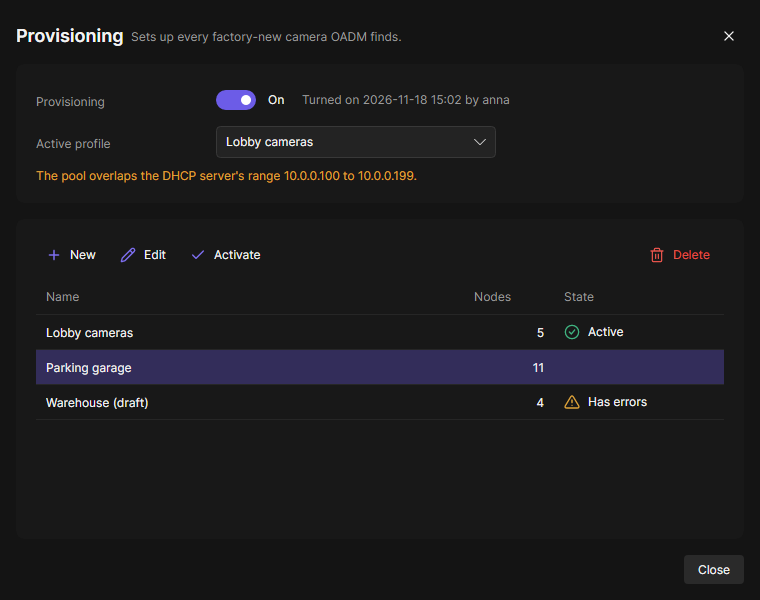
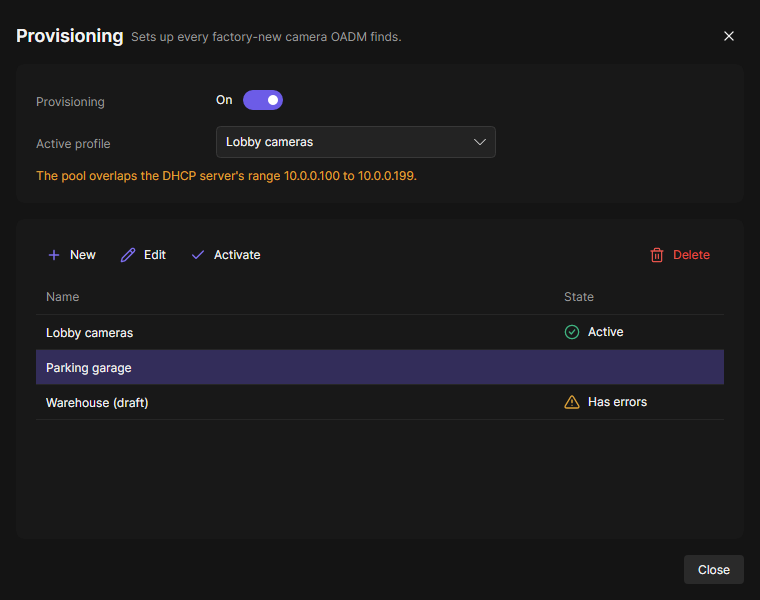
feat(provisioning): the switch no longer shows when and by whom it was turned on (the audit log has it)

diff --git a/plugins/Oadm.Plugins.Provisioning.Client/ProvisioningDialogViewModel.cs b/plugins/Oadm.Plugins.Provisioning.Client/ProvisioningDialogViewModel.cs
@@ -60,16 +60,11 @@ public sealed partial class ProvisioningDialogViewModel : ObservableObject
 
     /// <summary>The server's status: on or off, the active profile, why On is refused, the warnings, the DHCP server.</summary>
     [ObservableProperty]
-    [NotifyPropertyChangedFor(nameof(IsOn), nameof(OnText), nameof(HasOnText), nameof(Warnings), nameof(HasWarnings), nameof(SwitchTip))]
+    [NotifyPropertyChangedFor(nameof(IsOn), nameof(Warnings), nameof(HasWarnings), nameof(SwitchTip))]
     public partial StatusReply Status { get; private set; } = new();
 
     /// <summary>Provisioning is on (the switch).</summary>
     public bool IsOn => Status.On;
-
-    /// <summary>"Turned on 2026-11-18 14:02 by anna" while on; empty while off.</summary>
-    public string OnText => Status is { On: true, OnAt: { } at } ? ProvisioningTexts.TurnedOn(at, Status.OnBy) : string.Empty;
-
-    public bool HasOnText => OnText.Length > 0;
 
     /// <summary>Why On does not work now (the switch's tooltip while off); null when it would.</summary>
     public string? SwitchTip => Status.On ? null : Status.TurnOnRefusal;

diff --git a/tests/Oadm.Plugins.Provisioning.Tests/Client/ProvisioningDialogTests.cs b/tests/Oadm.Plugins.Provisioning.Tests/Client/ProvisioningDialogTests.cs
@@ -43,8 +43,6 @@ public sealed class ProvisioningDialogTests
     {
         var (dialog, _, _) = await OpenAsync();
         Assert.True(dialog.IsOn);
-        Assert.StartsWith("Turned on 2026-11-18 ", dialog.OnText, StringComparison.Ordinal);
-        Assert.EndsWith(" by anna", dialog.OnText, StringComparison.Ordinal);
         Assert.Equal("Lobby cameras", dialog.ActiveChoice?.Name);
         Assert.Equal(["Lobby cameras", "Parking"], dialog.ActiveChoices.Select(r => r.Name));
         Assert.True(dialog.HasWarnings);
@@ -52,7 +50,6 @@ public sealed class ProvisioningDialogTests
 
         var (off, _, _) = await OpenAsync(status: Off());
         Assert.False(off.IsOn);
-        Assert.False(off.HasOnText);
         Assert.False(off.HasWarnings);
     }
 

diff --git a/plugins/Oadm.Plugins.Provisioning.Client/ProvisioningTexts.cs b/plugins/Oadm.Plugins.Provisioning.Client/ProvisioningTexts.cs
@@ -34,10 +34,6 @@ public static class ProvisioningTexts
 
     public static string DeleteProfileMessage(string name) => $"The profile {name} is deleted.";
 
-    /// <summary>"Turned on 2026-11-18 14:02 by anna".</summary>
-    public static string TurnedOn(DateTimeOffset at, string? by) =>
-        "Turned on " + at.ToLocalTime().ToString("yyyy-MM-dd HH:mm", CultureInfo.InvariantCulture) + (string.IsNullOrEmpty(by) ? string.Empty : " by " + by);
-
     // ---- Tasks pane ----
     public const string RunAgain = "Run again";
     public const string RunAgainTip = "Runs only the failed steps again";

diff --git a/docs/spec/provisioning.md b/docs/spec/provisioning.md
@@ -52,7 +52,7 @@ changes nothing by itself: provisioning itself is **Off** until an Administrator
   button is disabled, its tooltip says so).
 - **Provisioning management** (dialog `ProvisioningWindow`): the **On / Off** switch (the theme's `ToggleSwitch`; a refused
   On shows `TurnOnRefusal` or the server's reason directly below the switch and the switch stays Off; who turned it on and
-  when beside it), the **active profile** (a choice of the profiles without errors; choosing one activates it, a refusal
+  when is in the audit log, not beside it), the **active profile** (a choice of the profiles without errors; choosing one activates it, a refusal
   below the choice), the warnings, and the profile list (every profile with its state, Active or Has errors; no node count,
   decision 2026-11-20; New and Edit open the profile editor with the status's DHCP server for a new Network node, Activate, Delete
   with a red confirmation). One card for the switch, one for the list, a lone Close; it follows the `status` event while
